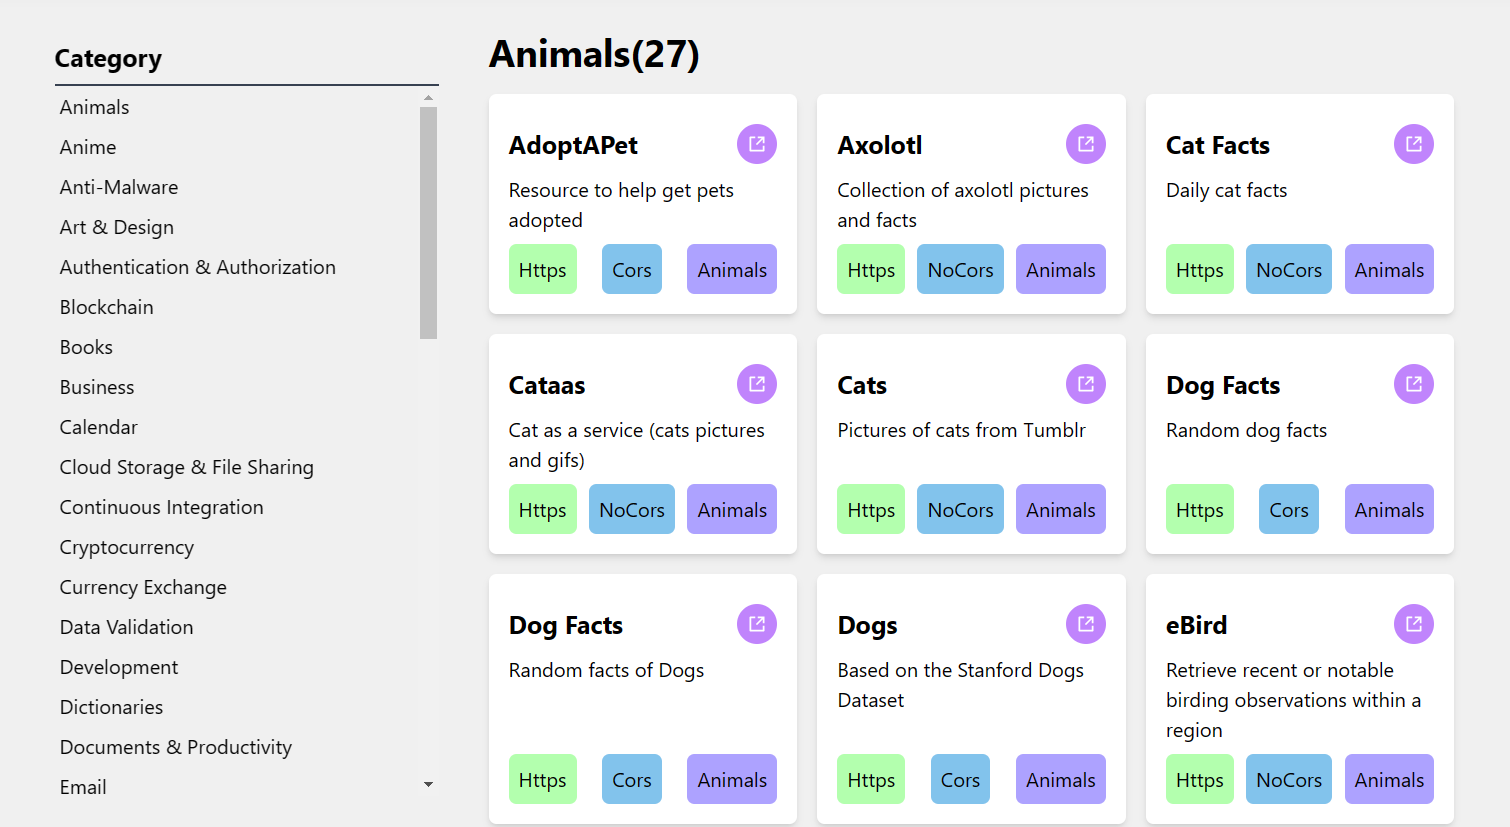
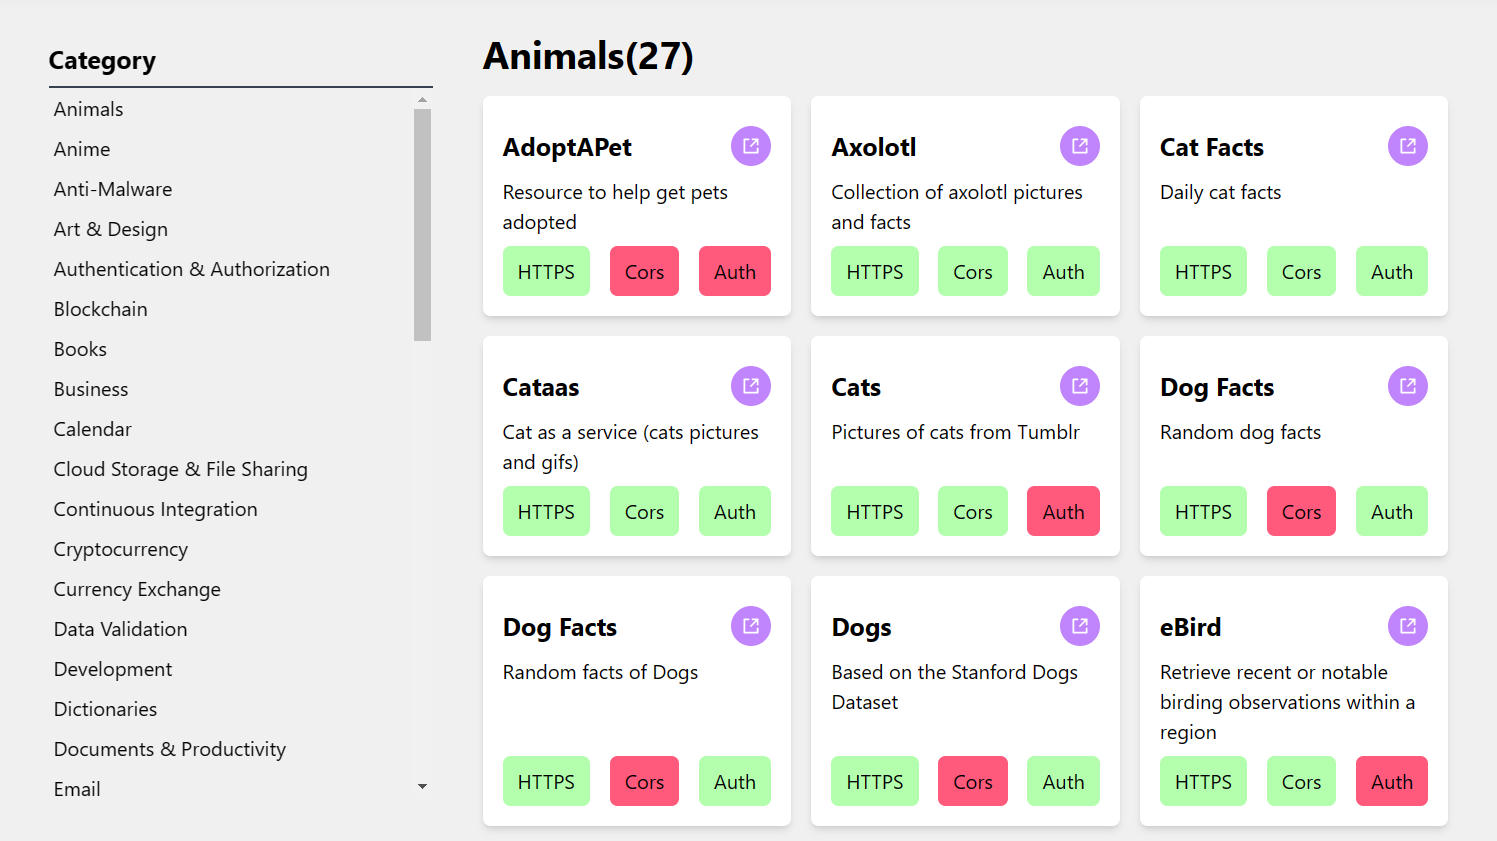
change Table style

diff --git a/components/Table/Table.jsx b/components/Table/Table.jsx
@@ -1,4 +1,5 @@
 import { RiShareBoxLine } from "react-icons/ri";
+
 import { fetchEntry } from "../../utils/api";
 
 function EntryCard({ item }) {
@@ -13,15 +14,15 @@ function EntryCard({ item }) {
         </div>
         <p>{item.Description}</p>
       </div>
-      <div className='flex flex-row items-center justify-between gap-2'>
-        <span style={{ backgroundColor: "#B3FFAE" }} className='p-2 rounded-md'>
-          {item.HTTPS ? "Https" : "Http"}
+      <div className='flex flex-row items-center justify-between'>
+        <span style={{ backgroundColor: item.HTTPS ? "#B3FFAE" : "#FF597B" }} className='py-2 px-3 rounded-md'>
+          HTTPS
         </span>
-        <span style={{ backgroundColor: "#82C3EC" }} className='p-2 rounded-md'>
-          {item.Cors === "no" ? "NoCors" : "Cors"}
+        <span style={{ backgroundColor: item.Cors === "no" ? "#B3FFAE" : "#FF597B" }} className='p-2 px-3 rounded-md'>
+          Cors
         </span>
-        <span style={{ backgroundColor: "#ADA2FF" }} className='p-2 rounded-md whitespace-nowrap'>
-          {item.Category}
+        <span style={{ backgroundColor: item.Auth === "" ? "#B3FFAE" : "#FF597B" }} className='p-2 px-3 rounded-md'>
+          Auth
         </span>
       </div>
     </div>
